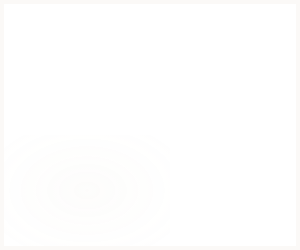
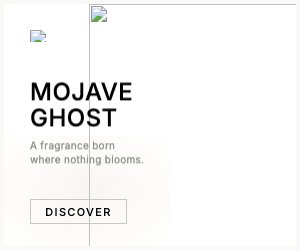
Fix byredo 300x250 blank poster; merge adjacent script blocks
- Recapture byredo-300x250.png via Playwright after GSAP animation
  completes (5s wait); was a blank white frame at 7KB, now 23KB with
  correct #FBF9F7 background content
- Merge the two adjacent <script> IIFEs into one block — ad gallery
  tile builder and cs-level tab handler were split across two <script>
  tags with no functional reason

Changed region(s): [[0.09, 0.0, 0.99, 0.98], [0.09, 0.112, 0.15, 0.168]]

diff --git a/marly/index.html b/marly/index.html
@@ -558,8 +558,7 @@
     }).observe(outer);
   }
 })();
-</script>
-<script>
+
 (function () {
   document.querySelectorAll('.cs-level').forEach(function (wrap) {
     var frame  = wrap.querySelector('.cs-level-frame');
